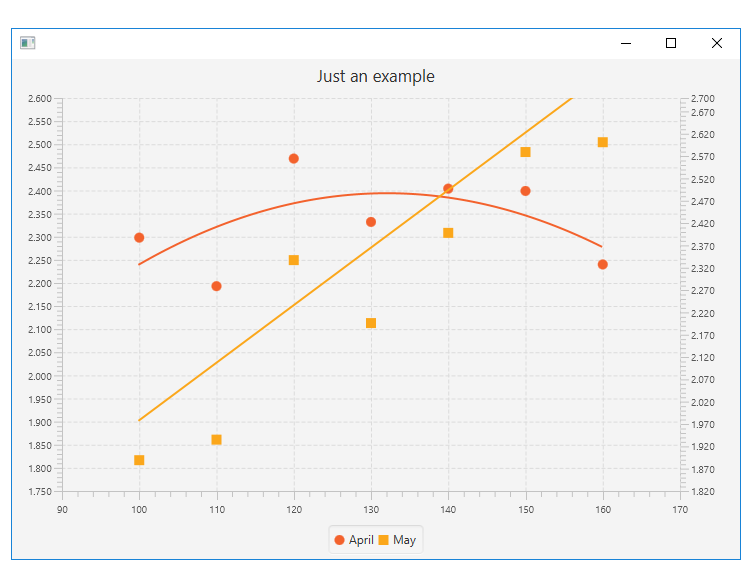
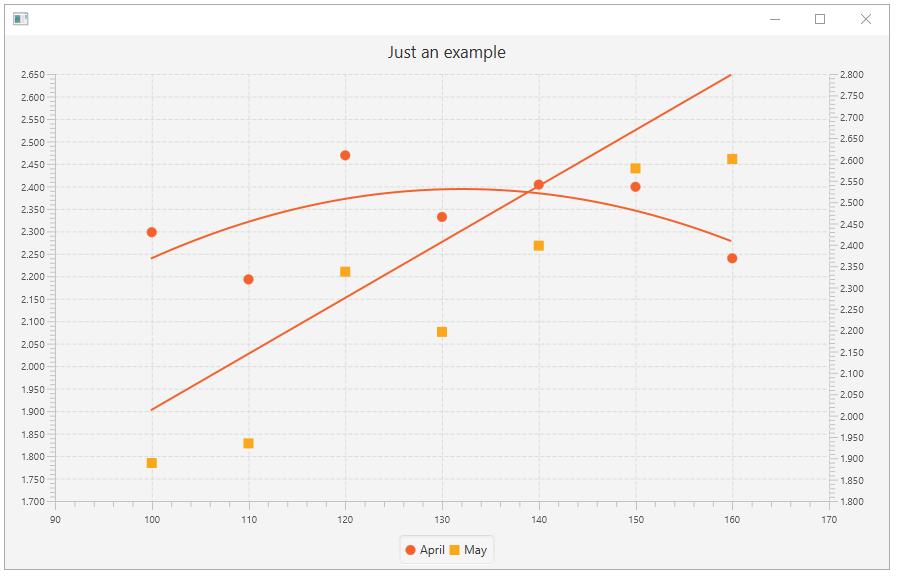
Update readme.md

diff --git a/README.md b/README.md
@@ -16,6 +16,11 @@ Available Chart:
 The charts uses the well known Axis (NumberAxis, CategoryAxis) and to add data to the chart you have to add one or more MultiAxisChart.Series<?,?> containing new MultiAxisChart.Data<?,?> data. Example :
 
 ```java
+
+NumberAxis xAxis = new NumberAxis(90,170,10);
+NumberAxis yAxis = new NumberAxis(1700,2650,50);
+NumberAxis y2Axis = new NumberAxis(1800,2800,50);
+
 MultiAxisScatterChart chart = new MultiAxisScatterChart(xAxis, yAxis, y2Axis);
 chart.setTitle("Just an example");
 chart.setPrefSize(500, 500);
